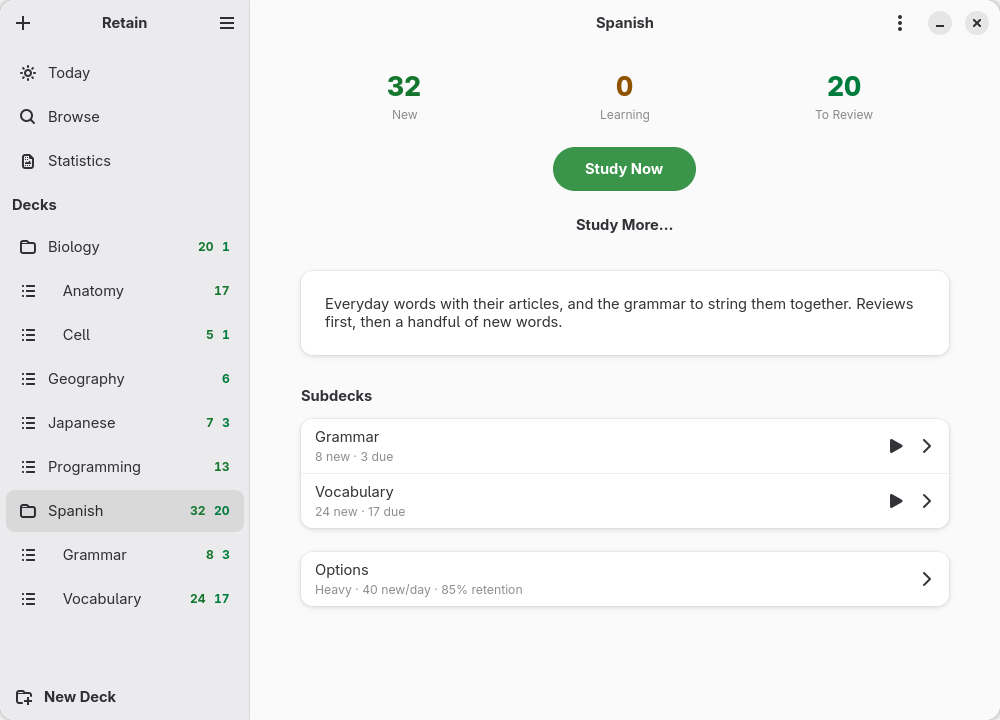
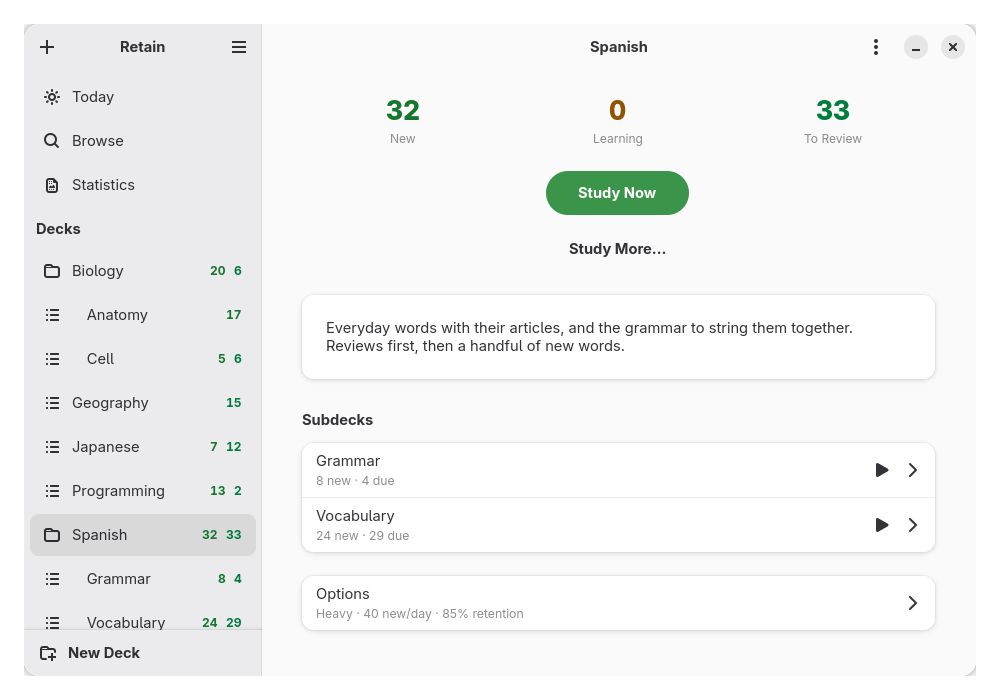
metainfo: a shorter summary, the new features, screenshots with shadows
Flathub wants a summary of at most 35 characters, screenshots no larger
than 1000x700 with the window's shadow, and a description that covers
what the app does now: study modes, note types, Read Aloud, sync and
AnkiConnect. screenshot.py --shadow draws Adwaita's window shadow. The
screenshot URLs name the v0.2.0 tag. Adds the collection package type
and a contribute link.

diff --git a/scripts/screenshot.py b/scripts/screenshot.py
@@ -10,6 +10,7 @@
                                     preferences|about|shortcuts|edit|notetypes|
                                     notetype|template]
                           [--search QUERY] [--scroll PX] [--setting KEY=VALUE …]
+                          [--shadow]
 
 Builds nothing itself: run meson install -C build (or scripts/run.sh) first, and run it
 through scripts/headless.sh so the window opens on a private display. The demo collection
@@ -20,7 +21,8 @@ the first deck with cards due), --answer with its answer shown. --dialog opens a
 the page and shoots it (notetypes: Manage Note Types; notetype: the page of the type with
 the most notes; template: its first card template's editor; --scroll then scrolls the
 dialog). --search types a query into the browser. In the narrow layout the shot shows the
-sidebar, or the page when --page is given (--sidebar keeps the sidebar).
+sidebar, or the page when --page is given (--sidebar keeps the sidebar). --shadow draws the
+window's shadow around it, as Flathub wants its screenshots (data/screenshots).
 """
 
 import argparse
@@ -44,12 +46,13 @@ parser.add_argument('--dialog', choices=['add', 'new-deck', 'options', 'custom-s
 parser.add_argument('--search', metavar='QUERY')
 parser.add_argument('--scroll', metavar='PX', type=int, default=0)
 parser.add_argument('--setting', metavar='KEY=VALUE', action='append', default=[])
+parser.add_argument('--shadow', action='store_true')
 args = parser.parse_args()
 width, height = (int(n) for n in args.size.split('x'))
 
 app = harness.make_app('Screenshot', light=args.light, size=(width, height))
 
-from gi.repository import Adw, GLib, Graphene, Gtk  # noqa: E402  (after make_app)
+from gi.repository import Adw, Gdk, GLib, Graphene, Gsk, Gtk  # noqa: E402  (after make_app)
 
 steps = []
 failed = False
@@ -162,6 +165,21 @@ def draw_popovers(window, snapshot):
         snapshot.restore()
 
 
+# Adwaita's window.csd shadow (focused): (blur, spread, alpha) of each layer.
+WINDOW_SHADOW = ((14, 5, 0.15), (5, 2, 0.10))
+WINDOW_RADIUS = 15
+SHADOW_MARGIN = 24
+
+
+def draw_shadow(snapshot, width, height):
+    outline = Gsk.RoundedRect()
+    outline.init_from_rect(Graphene.Rect().init(0, 0, width, height), WINDOW_RADIUS)
+    for blur, spread, alpha in WINDOW_SHADOW:
+        color = Gdk.RGBA()
+        color.alpha = alpha
+        snapshot.append_outset_shadow(outline, color, 0, 0, spread, blur)
+
+
 def shoot():
     global failed
     try:
@@ -185,9 +203,15 @@ def _shoot():
     target = dialog_window(window)
     paintable = Gtk.WidgetPaintable(widget=target)
     snapshot = Gtk.Snapshot()
-    paintable.snapshot(snapshot, target.get_width(), target.get_height())
+    width, height = target.get_width(), target.get_height()
+    viewport = None
+    if args.shadow:
+        draw_shadow(snapshot, width, height)
+        viewport = Graphene.Rect().init(-SHADOW_MARGIN, -SHADOW_MARGIN,
+                                        width + 2 * SHADOW_MARGIN, height + 2 * SHADOW_MARGIN)
+    paintable.snapshot(snapshot, width, height)
     draw_popovers(target, snapshot)
-    texture = target.get_renderer().render_texture(snapshot.to_node(), None)
+    texture = target.get_renderer().render_texture(snapshot.to_node(), viewport)
     texture.save_to_png(args.out)
     print(args.out)
     app.quit()
